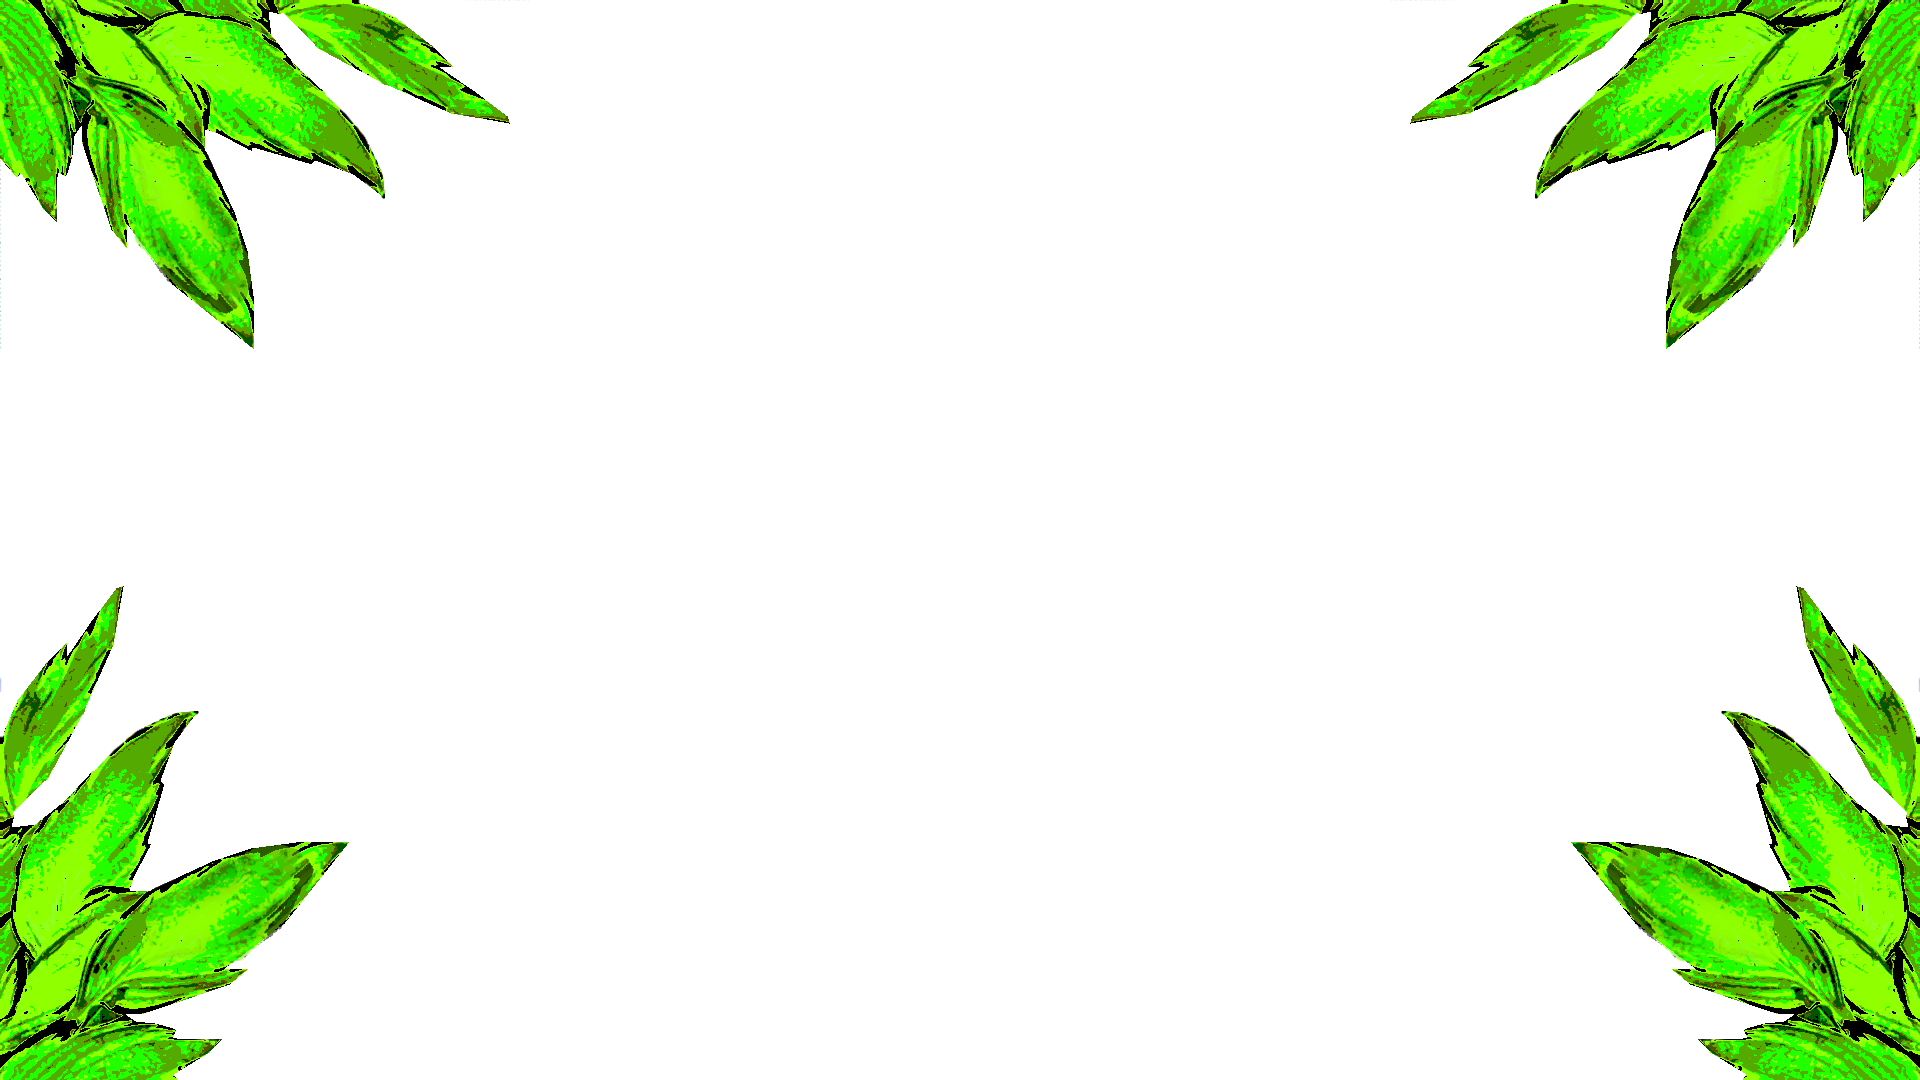
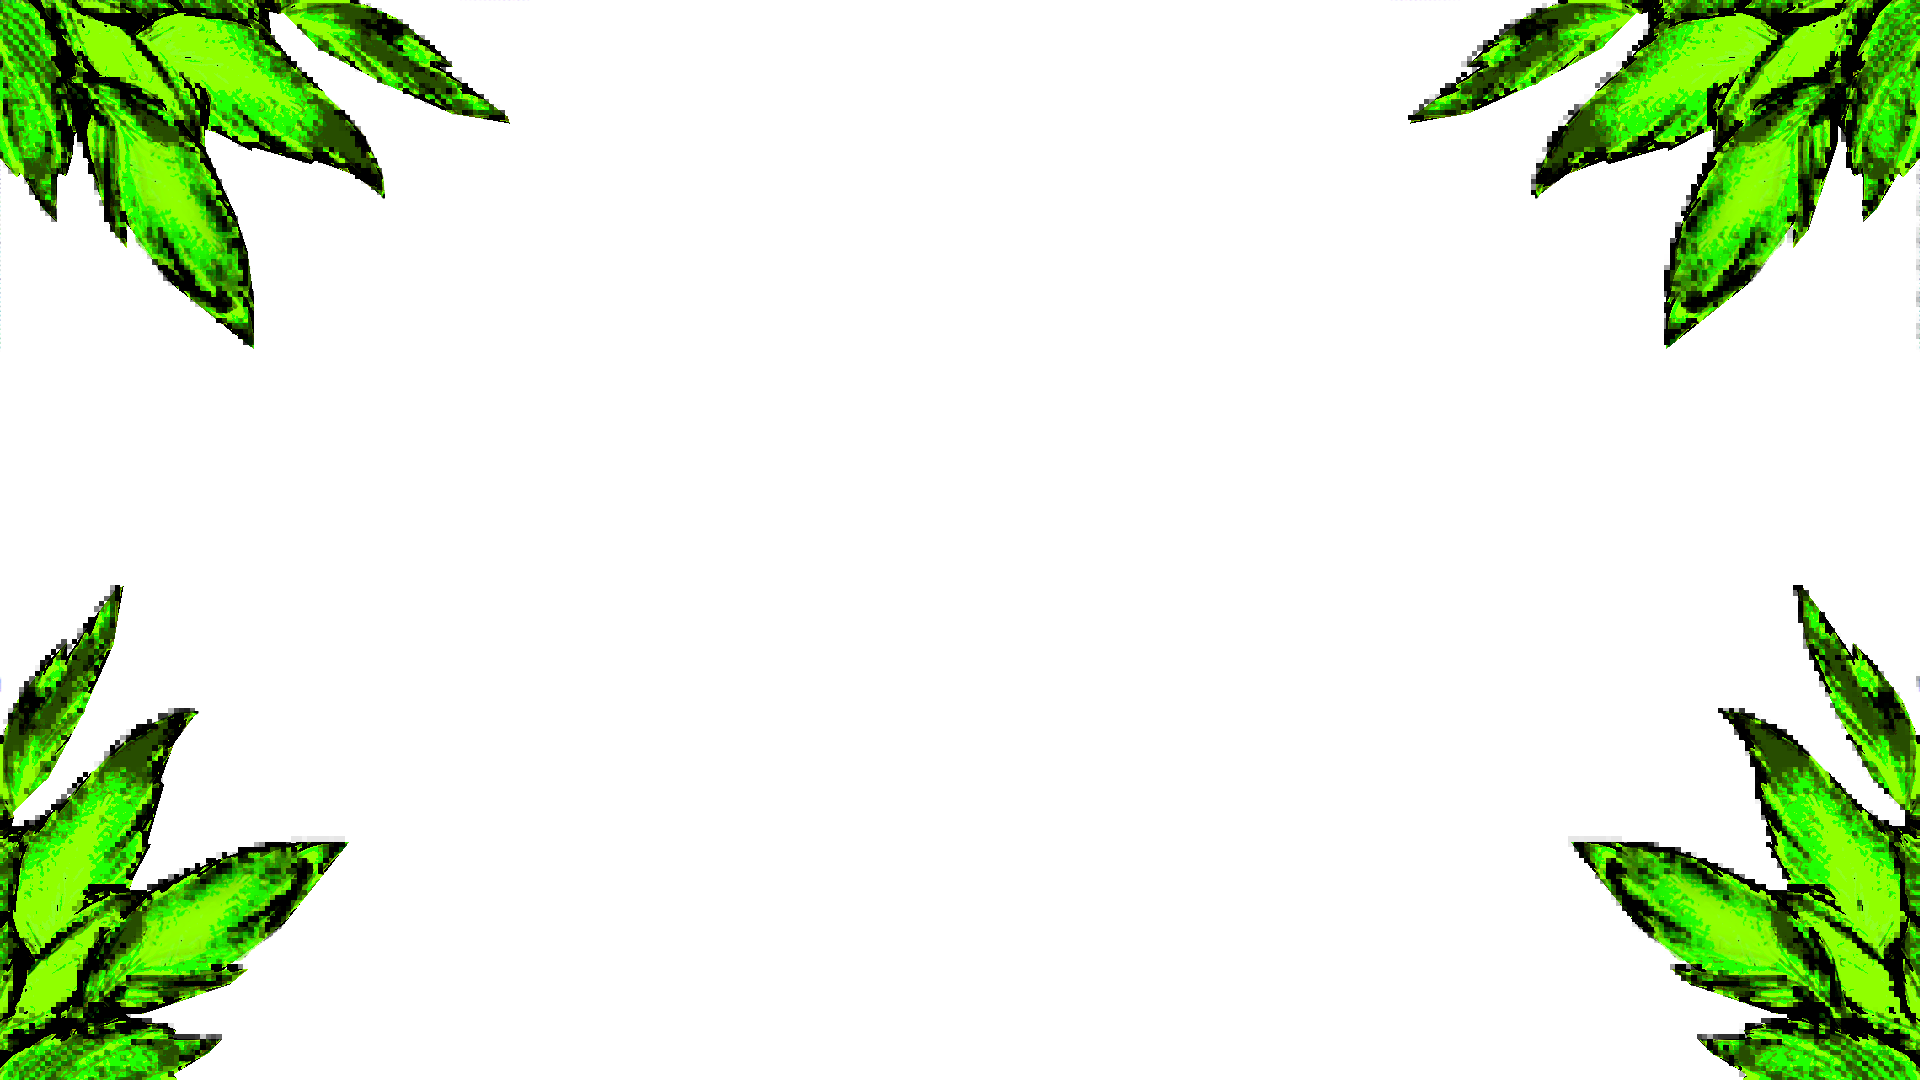
Fixed missing wave shader. Added some homosaatio postprocessing.

diff --git a/sceneTree/Tree.js b/sceneTree/Tree.js
@@ -470,9 +470,7 @@ Demo.prototype.sceneTreeOverlay = function () {
     "scale":[{"uniform3d":()=>1.0+Math.sin(getSceneTimeFromStart())*.03+.03}],
     "color": [{ 
       "r": 1, "g": 1, "b": 1, "a":()=>Sync.get('Tree:PlantAlpha')
-    }],
-    shader: {
-      name: 'multiSceneEffects/wave.fs'
-    }
+    }]
+    ,"shader":{"name":"multiSceneEffects/wave.fs"}
   });
 }
